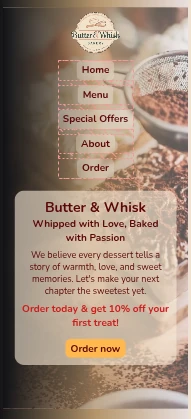
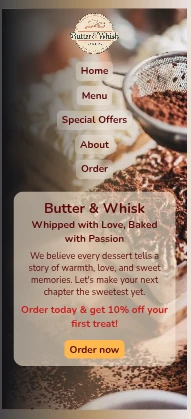
adding project url to readme file , edit mobil screenshot , modify background color

diff --git a/style.css b/style.css
@@ -142,6 +142,9 @@ button:hover{
 }
 
 @media (max-width: 800px) { 
+    body{
+       background-image: linear-gradient(to right, #111216c9, #b5956b, #ebe3e5);
+    }
 a{
     display: flex;
     justify-content: center;
@@ -163,14 +166,14 @@ p{
     font-size: 20px;
 }
 .container{
-    background-image: linear-gradient(to right, #111216, #b5956bb2, #ebe3e554),
+    background-image: linear-gradient(to right, #111216c9 #b5956bb2, #ebe3e554),
     url(/images/tiramisu2.webp);
     padding: 5px; 
     width: 95%;
     height: 95%;
 }
 .container:hover{
-    background-image: linear-gradient(to right, #111216, #b5956b63, transparent),
+    background-image: linear-gradient(to right, #4b4e589a, #b5956b63, transparent),
     url(/images/tiramisu2.webp);
 }
 .content{

diff --git a/README.md b/README.md
@@ -13,7 +13,7 @@ This project is my first attempt at designing and developing a web page from scr
 **Mobile view:**
 ![Mobile Screenshot](images/mobile.webp)
 
-[Live Demo](https://amira713.github.io/bakery-project/)
+[Live Demo](https://github.com/amira713/bakery-project.git)
 
 ---
 
